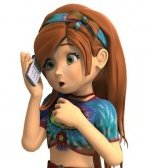
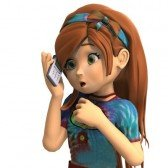
More Sadie graphics added to member pages

diff --git a/css/style.css b/css/style.css
@@ -27,9 +27,10 @@ body {
 .sadie {
     position: fixed;
     width: 216px;
-    height: 500px;
+    height: 520px;
     margin-top: 80px;
     background-color: #fff;
+    background-repeat: no-repeat;
     background-image: url('/images/Sadie.jpg');
 }
 .content {
@@ -393,6 +394,10 @@ table th {
 }
 
 /* media */
+.scale {
+    max-width: 100%;
+    height: auto;
+}
 @media (min-width: 0px) { body { padding-top: 60px; } }
 @media (min-width: 0px) { #sidebar { padding-top: 70px; } }
 @media (min-width: 0px) { .thisistheloginpage { width: 100px; } }

diff --git a/app/Http/Controllers/PagesController.php b/app/Http/Controllers/PagesController.php
@@ -7,6 +7,7 @@ use App\Http\Requests;
 use App\Models\Faq;
 use App\Models\Member;
 use App\Models\Page;
+use App\Models\PasswordReset;
 use App\Models\Product;
 use App\Models\Promotional;
 use App\Http\Controllers\Controller;
@@ -216,13 +217,49 @@ class PagesController extends Controller
         $forgotemail = $request->get('forgotemail');
         $found = Member::where('email', $forgotemail)->first();
         if ($found !== null) {
-            // CODE TO EMAIL LOGIN?!?!
+
+            // forgotten password link email:
+            $forgot_code = str_random(30);
+            $html = "Dear ".$found->firstname.",<br><br>";
+            $html .= "Please click here to reset your password: <a href=\"" . $request->get('domain') . "/reset/" . $forgot_code . "\">" . $request->get('domain') . "/reset/" . $forgot_code . "</a>";
+            $html .=  "<br><br>" . $request->get('sitename') . " Admin<br>" . $request->get('domain') . "<br><br><br>";
+
+            Mail::send(array(), array(), function ($message) use ($html, $request, $forgotemail, $found) {
+                $message->to($forgotemail, $found->firstname . ' ' . $found->lastname)
+                    ->subject($request->get('sitename') . ' Password Reset')
+                    ->from($request->get('adminemail'), $request->get('adminname'))
+                    ->setBody($html, 'text/html');
+            });
+            // forgotten password link email
+            $passwordreset = new PasswordReset();
+            $passwordreset->email = $forgotemail;
+            $passwordreset->token = $forgot_code;
+            $passwordreset->save();
             Session::flash('message', ' Check your email, ' . $found->email . ', for a link to reset your password!');
         } else {
             Session::flash('errors', 'That email address was not found');
         }
         return Redirect::to('forgot');
+    }
+    public function reset(Request $request, $code = null) {
+        $resetpass = PasswordReset::where('token', '=', $code)->first();
+        if ($resetpass) {
+            Session::flush();
+            $member = Member::where('email', '=', $resetpass->email)->first();
+            if ($member) {
 
+                // need a form for the member to reset the password.
+
+
+                return view('pages.reset');
+            } else {
+                Session::flash('message', 'Invalid Link');
+                return view('pages.reset');
+            }
+        } else {
+            Session::flash('message', 'Invalid Link');
+            return view('pages.reset');
+        }
     }
 
     public function account() {

diff --git a/resources/views/pages/reset.blade.php b/resources/views/pages/reset.blade.php
@@ -1,0 +1,50 @@
+@extends('layouts.main')
+
+@section('heading')
+
+@stop
+
+@section('pagetitle')
+
+    Reset Password
+
+@stop
+
+@section('content')
+
+    @if (Session::has('message'))
+        <div class="alert alert-danger">{{ Session::get('message') }}</div>
+    @endif
+
+    @if (count($errors) > 0)
+        <div class="alert alert-danger">
+            <ul>
+                @foreach ($errors->all() as $error)
+                    <li>{{ $error }}</li>
+                @endforeach
+            </ul>
+        </div>
+    @endif
+
+    <div class="form-page-small">
+        <div class="form">
+
+            <!-- Registration Form -->
+            <form class="register-form" id="register-form" role="form" method="post" action="{{ url('/reset') }}">
+                {{ csrf_field() }}
+                    <div class="form-group">
+                    <input type="password" placeholder="password" name="password" id="password"/>
+                </div>
+                <div class="form-group">
+                    <input type="password" placeholder="confirm password" name="password_confirmation" id="password_confirm"/>
+                </div>
+                <button>save</button>
+            </form>
+        </div>
+    </div>
+
+@stop
+
+@section('footer')
+
+@stop

diff --git a/public/worklist.php b/public/worklist.php
@@ -4,6 +4,8 @@
 created GlobalConfig middleware which I got to work. Both exist though still.
 
 -email login - code to send the email only now!!! same for admin and member (adminlogincontroller, membercontroller)
+reset.blade etc., pagescontroller etc needs finishing.
+
 
 - referid isn't tracked properly I hate how this works right now. Awkward.
 

diff --git a/app/Http/routes.php b/app/Http/routes.php
@@ -63,6 +63,8 @@ Route::get('forgot/{referid}', 'PagesController@forgot');
 Route::get('forgot', 'PagesController@forgot');
 Route::post('forgot', 'PagesController@emaillogin');
 
+Route::get('reset/{code}', 'PagesController@reset');
+Route::get('reset', 'PagesController@reset');
 
 ////////////////////////// MEMBERS //////////////////////
 

diff --git a/resources/views/pages/account.blade.php b/resources/views/pages/account.blade.php
@@ -15,9 +15,17 @@
 
 @section('content')
 
+    <img class="scale" src="/images/SadieStudying.jpg" border="0"><br><br><br>
+
     @if(Session::has('page'))
         {!! Session::get('page')->htmlcode !!}
     @endif
+
+    <script>
+        $(document).ready(function(){
+            $('.sadie').hide();
+        });
+    </script>
 
 @stop
 

diff --git a/resources/views/pages/banners.blade.php b/resources/views/pages/banners.blade.php
@@ -434,6 +434,12 @@ Text Color: <select id="picktextcolor">
 
 </script>
 
+    <script>
+        $(document).ready(function(){
+            $('.sadie').css("background-image", "url('/images/SadiePeace.png')");
+        });
+    </script>
+
 @stop
 
 

diff --git a/app/Models/PasswordReset.php b/app/Models/PasswordReset.php
@@ -1,0 +1,11 @@
+<?php
+
+namespace App\Models;
+
+use Illuminate\Database\Eloquent\Model;
+
+class PasswordReset extends Model
+{
+    protected $table = "password_resets";
+
+}
